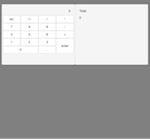
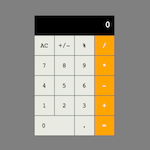
Update calc screenshot and index title

diff --git a/public/index.html b/public/index.html
@@ -14,7 +14,7 @@
       Learn how to configure a non-root public URL by running `npm run build`.
     -->
     <link href="https://maxcdn.bootstrapcdn.com/font-awesome/4.7.0/css/font-awesome.min.css" rel="stylesheet" integrity="sha384-wvfXpqpZZVQGK6TAh5PVlGOfQNHSoD2xbE+QkPxCAFlNEevoEH3Sl0sibVcOQVnN" crossorigin="anonymous">
-    <title>React App</title>
+    <title>Sam's Profile</title>
   </head>
   <body>
     <div id="root"></div>
